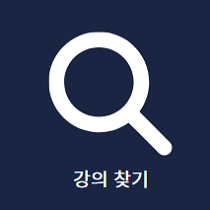
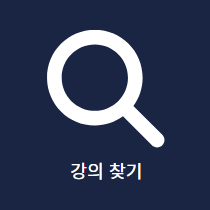
20220629 경태 커밋 고객지원 강의검색 버튼 색깔바꾸기 구현

diff --git a/TeamProject0987/src/panels/CustomerServicePanel.java b/TeamProject0987/src/panels/CustomerServicePanel.java
@@ -22,7 +22,7 @@ import buttons.SignupButton;
 
 public class CustomerServicePanel extends ImagePanel {
 
-	public static GoToButton loginBtn;
+	public static LoginButton loginBtn;
 	public static LogoutButton logoutBtn;
 
 	public CustomerServicePanel() {
@@ -33,27 +33,23 @@ public class CustomerServicePanel extends ImagePanel {
 		panel.setBounds(203, 361, 802, 370);
 		add(panel);
 		panel.setLayout(customerLmg);
-
+		
 		setBounds(0, 0, 1200, 800);
 		setLayout(null);
 
 		JLabel lblNewLabel = new JLabel("개인정보처리방침");
 		lblNewLabel.setForeground(Color.WHITE);
-		lblNewLabel.setFont(new Font("배달의민족 도현", Font.BOLD, 54));
+		lblNewLabel.setFont(new Font("배달의민족 도현", Font.BOLD | Font.ITALIC, 54));
 		lblNewLabel.setBounds(203, 57, 573, 80);
 		add(lblNewLabel);
 
-		ImageIcon icon = new ImageIcon("images/homeButton.png");
-		Image img = icon.getImage();
-		// 창의 사이즈인 500,500에 맞춰서 이미지를 변경
-		Image changeImg = img.getScaledInstance(80, 80, Image.SCALE_SMOOTH);
-		ImageIcon changeIcon = new ImageIcon(changeImg);
 		
 		GoToButton mainBtn = new GoToButton("메인");
 		mainBtn.setFont(new Font("굴림", Font.PLAIN, 0));
-		mainBtn.setIcon(changeIcon);
+		mainBtn.setIcon(new ImageIcon("images/homeBtn.png"));
+		mainBtn.setRolloverIcon(new ImageIcon("images/homeBtn2.png"));
 		mainBtn.setBorderPainted(false);
-		mainBtn.setBounds(20, 31, 75, 75);
+		mainBtn.setBounds(20, 31, 95, 95);
 		mainBtn.setBackground(Color.WHITE);
 		mainBtn.addActionListener(new ActionListener() {
 			@Override
@@ -104,7 +100,7 @@ public class CustomerServicePanel extends ImagePanel {
 				lblNewLabel.setText("이용약관");
 			}
 		});
-		use.setBounds(407, 169, 192, 80);
+		use.setBounds(510, 169, 192, 80);
 		add(use);
 
 		JButton road = new JButton("찾아오시는 길");
@@ -120,19 +116,19 @@ public class CustomerServicePanel extends ImagePanel {
 				lblNewLabel.setText("찾아오시는길");
 			}
 		});
-		road.setBounds(611, 169, 192, 80);
+		road.setBounds(813, 169, 192, 80);
 		add(road);
 
-		SignupButton join = new SignupButton("");
+		SignupButton join = new SignupButton("회원가입");
 		join.setBounds(1050, 31, 115, 115);
 		add(join);
 
-		LoginButton loginBtn = new LoginButton("");
+		loginBtn = new LoginButton("로그인");
 		loginBtn.setBounds(1050, 181, 115, 115);
 		add(loginBtn);
 
 		logoutBtn = new LogoutButton("로그아웃");
-		logoutBtn.setBounds(1050, 331, 115, 115);
+		logoutBtn.setBounds(1050, 181, 115, 115);
 		add(logoutBtn);
 
 		JLabel privacyLabel = new JLabel();
@@ -149,19 +145,11 @@ public class CustomerServicePanel extends ImagePanel {
 		roadLabel.setIcon(new ImageIcon("images/약도.png"));
 		panel.add(roadLabel, "오시는길");
 		
-		
-		
-		JLabel lblNewLabel_1 = new JLabel("───────────────────────────────────");
-		lblNewLabel_1.setFont(new Font("굴림", Font.BOLD, 35));
-		lblNewLabel_1.setForeground(Color.WHITE);
-		lblNewLabel_1.setBounds(203, 144, 802, 15);
-		add(lblNewLabel_1);
-		
-		JLabel lblNewLabel_2 = new JLabel("메인");
-		lblNewLabel_2.setForeground(Color.WHITE);
-		lblNewLabel_2.setFont(new Font("배달의민족 도현", Font.PLAIN, 20));
-		lblNewLabel_2.setBounds(37, 112, 38, 25);
-		add(lblNewLabel_2);
+		JLabel whiteLabel_1 = new JLabel("");
+		whiteLabel_1.setOpaque(true);
+		whiteLabel_1.setBackground(Color.WHITE);
+		whiteLabel_1.setBounds(203, 134, 802, 3);
+		add(whiteLabel_1);
 		
 		
 	

diff --git a/TeamProject0987/src/panels/LectureSearchPanel.java b/TeamProject0987/src/panels/LectureSearchPanel.java
@@ -44,8 +44,9 @@ public class LectureSearchPanel extends ImagePanel {
 			GoToButton mainBtn = new GoToButton("메인");
 			mainBtn.setFont(new Font("굴림", Font.PLAIN, 0));
 			mainBtn.setIcon(new ImageIcon("images/homeBtn.png"));
+			mainBtn.setRolloverIcon(new ImageIcon("images/homeBtn2.png"));
 			mainBtn.setBorderPainted(false);
-			mainBtn.setBounds(1037, 38, 46, 44);
+			mainBtn.setBounds(40, 29, 95, 95);
 			mainBtn.addActionListener(new ActionListener() {
 				
 				@Override
@@ -71,7 +72,8 @@ public class LectureSearchPanel extends ImagePanel {
 //					
 //				}
 //			});
-			myInfoBtn.setBounds(1104, 38, 46, 44);
+			myInfoBtn.setBounds(160, 29, 95, 95);
+			myInfoBtn.setRolloverIcon(new ImageIcon("images/infoBtn2.png"));
 			add(myInfoBtn);
 			
 			JPanel lectureListPanel = new JPanel();
@@ -80,6 +82,7 @@ public class LectureSearchPanel extends ImagePanel {
 			lectureListPanel.setLayout(layMng);
 			add(lectureListPanel);
 			JButton allCategoryBtn = new JButton("ALL");
+			allCategoryBtn.setRolloverIcon(new ImageIcon("images/all2.png"));
 			allCategoryBtn.setFont(new Font("Gulim", Font.PLAIN, 0));
 			allCategoryBtn.setSize(75,80);
 			
@@ -116,6 +119,7 @@ public class LectureSearchPanel extends ImagePanel {
 			add(recommendBtn);
 			
 			HintTextField searchField = new HintTextField("검색어를 입력해주세요");
+			searchField.setFont(new Font("배달의민족 도현", Font.PLAIN, 14));
 			searchField.addKeyListener(new KeyAdapter() {
 				
 				
@@ -171,7 +175,7 @@ public class LectureSearchPanel extends ImagePanel {
 			JLabel lblTeamname = new JLabel("강의검색");
 			lblTeamname.setFont(new Font("배달의민족 도현", Font.BOLD, 39));
 			lblTeamname.setForeground(Color.WHITE);
-			lblTeamname.setBounds(523, 29, 153, 62);
+			lblTeamname.setBounds(523, 29, 170, 62);
 			add(lblTeamname);
 			
 			JLabel lblNewLabel = new JLabel(" 강의추천");
@@ -185,18 +189,6 @@ public class LectureSearchPanel extends ImagePanel {
 			lblNewLabel_1.setFont(new Font("배달의민족 도현", Font.PLAIN, 14));
 			lblNewLabel_1.setBounds(840, 175, 67, 29);
 			add(lblNewLabel_1);
-			
-			JLabel lblNewLabel_2 = new JLabel("메인페이지");
-			lblNewLabel_2.setForeground(Color.WHITE);
-			lblNewLabel_2.setFont(new Font("배달의민족 도현", Font.PLAIN, 14));
-			lblNewLabel_2.setBounds(1025, 90, 67, 29);
-			add(lblNewLabel_2);
-			
-			JLabel lblNewLabel_2_1 = new JLabel("내정보");
-			lblNewLabel_2_1.setForeground(Color.WHITE);
-			lblNewLabel_2_1.setFont(new Font("배달의민족 도현", Font.PLAIN, 14));
-			lblNewLabel_2_1.setBounds(1107, 90, 46, 29);
-			add(lblNewLabel_2_1);
 			
 			for (int i = 0; i < 11; ++i) {
 				LectureCategoryButton cateBtn = new LectureCategoryButton(i);

diff --git a/TeamProject0987/src/database/LectureTable.java b/TeamProject0987/src/database/LectureTable.java
@@ -3,6 +3,7 @@ package database;
 import java.awt.Color;
 import java.awt.Component;
 import java.awt.Dimension;
+import java.awt.Font;
 import java.awt.event.MouseAdapter;
 import java.awt.event.MouseEvent;
 import java.awt.event.MouseMotionAdapter;
@@ -80,6 +81,7 @@ public class LectureTable extends JPanel {
 		table.getColumnModel().getColumn(3).setMinWidth(80);
 		table.getColumnModel().getColumn(3).setMaxWidth(80);
 		
+		table.setFont(new Font("맑은 고딕", Font.PLAIN, 15));
 		table.setRowHeight(30);
 		table.setShowVerticalLines(false);
 		
@@ -139,7 +141,7 @@ public class LectureTable extends JPanel {
 							
 							detailInfoHash.put(rs.getString("lecture_id"), rs.getString("lecture_info"));
 
-							LectureInfoPanel1.detailInfoLabel.setText("\n\n\n"+(detailInfoHash.get(rs.getString("lecture_id"))));
+							LectureInfoPanel1.detailInfoLabel.setText((detailInfoHash.get(rs.getString("lecture_id"))));
 
 							System.out.println("강의정보 : " + LectureInfoPanel1.detailInfoLabel.getText());
 							
@@ -148,8 +150,7 @@ public class LectureTable extends JPanel {
 							LectureInfoPanel.lectureNameLabel.setText(rs.getString("lecture_name"));
 							LectureSearchPanel.lectureImageCategory = rs.getString("lecture_category");
 							LectureInfoPanel.lectureTime = (rs.getString("timetable"));
-							
-							
+	
 						}
 					} catch (SQLException e1) {
 						e1.printStackTrace();

diff --git a/TeamProject0987/src/panels/MainPanel.java b/TeamProject0987/src/panels/MainPanel.java
@@ -31,7 +31,7 @@ public class MainPanel extends ImagePanel {
 
 	public static JFrame thisFrame;
 
-	public static String currUserId = "hansm1119";
+	public static String currUserId = "logout";
 
 	public static MainPanel mainPanel = new MainPanel();
 	public static LectureSearchPanel lectureSearchPanel = new LectureSearchPanel();
@@ -91,8 +91,9 @@ public class MainPanel extends ImagePanel {
 		add(loginBtn);
 
 		logoutBtn = new LogoutButton("로그아웃");
-		logoutBtn.setBounds(1057, 70, 102, 54);
+		logoutBtn.setBounds(1054, 57, 115, 115);
 		add(logoutBtn);
+		logoutBtn.setVisible(false);
 		
 		JLabel lblNewLabel = new JLabel("<html><body style='text-align:center;'>Developer <br/>lecture <br/>program</body></html>", JLabel.CENTER);
 		lblNewLabel.setForeground(Color.WHITE);

diff --git a/TeamProject0987/src/panels/LectureCategoryButton.java b/TeamProject0987/src/panels/LectureCategoryButton.java
@@ -21,11 +21,19 @@ public class LectureCategoryButton extends JButton {
 			"알고리즘.png","임베디드.png","교양.png"
 	};
 	
+	private static String [] imagePath2 = {
+			"개발도구2.png","게임개발2.png","프론트엔드2.png",
+			"데브옵스2.png","데스크톱2.png",
+			"데이터베이스2.png","모바일2.png","백엔드2.png",
+			"알고리즘2.png","임베디드2.png","교양2.png"
+	};
+	
 	public LectureCategoryButton (int num) {
 		this.num = num;
 		setText(category[num]);
 		setSize(80,80);
 		setIcon(new ImageIcon("images/"+imagePath[num]));
+		setRolloverIcon(new ImageIcon("images/"+imagePath2[num]));
 //		setBorderPainted(false);
 		setFont(new Font("", Font.BOLD, 0));
 		

diff --git a/TeamProject0987/src/buttons/LogoutButton.java b/TeamProject0987/src/buttons/LogoutButton.java
@@ -15,10 +15,16 @@ import panels.CustomerServicePanel;
 import panels.MainPanel;
 
 public class LogoutButton extends JButton {
-	
+	static ImageIcon logoutBtn_img = new ImageIcon("images/logoutBtn.png");
+	static ImageIcon logoutBtn1_img = new ImageIcon("images/logoutBtn2.png");
 	public LogoutButton(String text) {
 		this.setBounds(609, 432, 118, 54);
 		this.setText(text);
+			
+		this.setIcon(logoutBtn_img);
+		this.setBorderPainted(false);//테두리 안보이게하기
+		this.setRolloverIcon(logoutBtn1_img);//마우스 올렸을때 이미지
+
 		
 		addActionListener(new ActionListener() {
 			
@@ -44,7 +50,10 @@ public class LogoutButton extends JButton {
 			}
 			
 		});
+		
+	
 	}
+	
 	
 
 }

diff --git a/TeamProject0987/src/database/LectureTable3.java b/TeamProject0987/src/database/LectureTable3.java
@@ -3,6 +3,7 @@ package database;
 import java.awt.Color;
 import java.awt.Component;
 import java.awt.Dimension;
+import java.awt.Font;
 import java.awt.event.MouseAdapter;
 import java.awt.event.MouseEvent;
 import java.awt.event.MouseMotionAdapter;
@@ -65,7 +66,7 @@ public class LectureTable3 extends JPanel {
 		table.getColumnModel().getColumn(1).setCellRenderer(cellRenderer);
 		table.getColumnModel().getColumn(2).setCellRenderer(cellRenderer);
 		table.getColumnModel().getColumn(3).setCellRenderer(cellRenderer);
-		
+		table.setFont(new Font("맑은 고딕", Font.PLAIN, 15));
 		table.setEnabled(false);
 		
 		table.setPreferredScrollableViewportSize(new Dimension(700, 600));

diff --git a/TeamProject0987/src/database/LectureTable2.java b/TeamProject0987/src/database/LectureTable2.java
@@ -3,6 +3,7 @@ package database;
 import java.awt.Color;
 import java.awt.Component;
 import java.awt.Dimension;
+import java.awt.Font;
 import java.awt.event.MouseEvent;
 import java.awt.event.MouseMotionAdapter;
 import java.sql.Connection;
@@ -68,7 +69,7 @@ public class LectureTable2 extends JPanel {
 		table.getColumnModel().getColumn(2).setCellRenderer(cellRenderer);
 		table.getColumnModel().getColumn(3).setCellRenderer(cellRenderer);
 		
-		
+		table.setFont(new Font("맑은 고딕", Font.PLAIN, 15));	
 		
 		table.setPreferredScrollableViewportSize(new Dimension(700, 600));
 		
